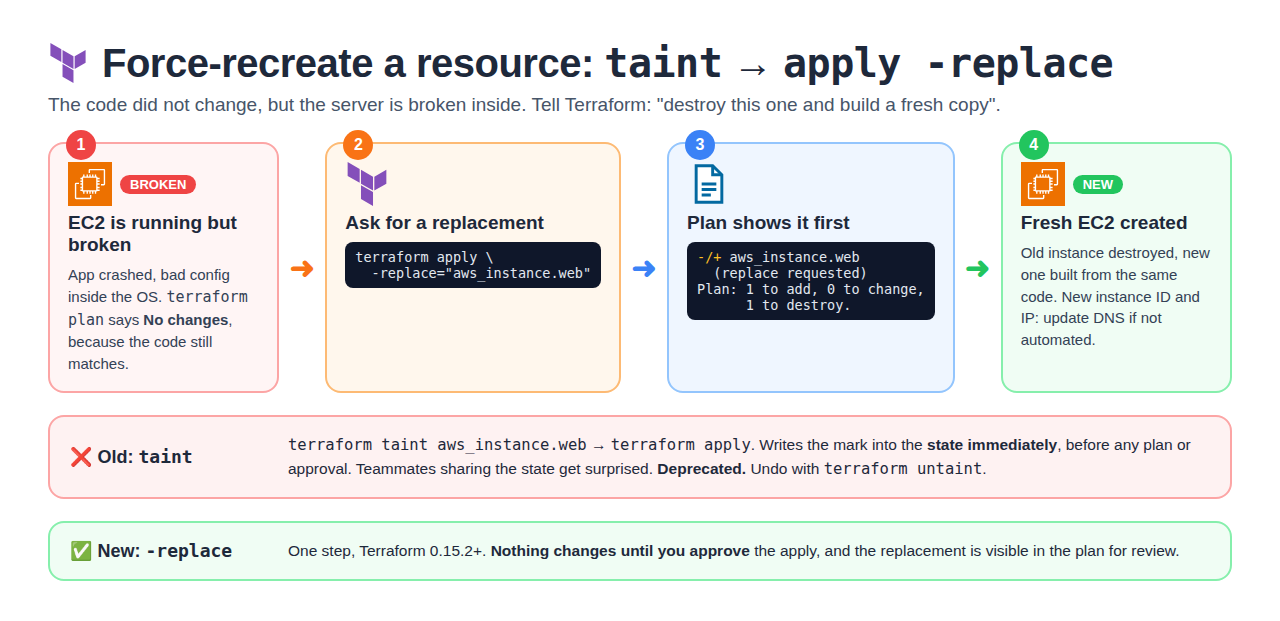
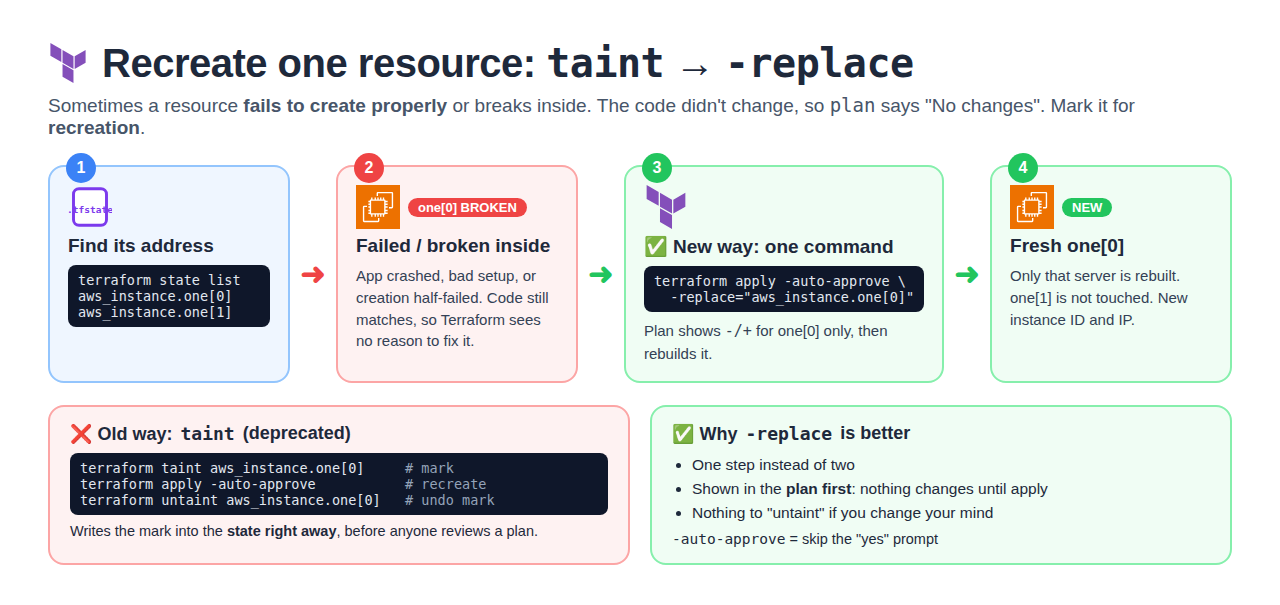
Terraform Day 3: validate, comments, local block, terraform block/providers, taint flow with diagrams

Changed region(s): [[0.0312, 0.0595, 0.9688, 0.9521]]

diff --git a/terraform/day-3-taint-import-debug/README.md b/terraform/day-3-taint-import-debug/README.md
@@ -6,11 +6,15 @@
 
 1. [Quick Definitions](#quick-definitions)
 2. [terraform taint (replace a resource)](#terraform-taint-replace-a-resource)
-3. [terraform plan -out (saved plan)](#terraform-plan--out-saved-plan)
-4. [terraform import](#terraform-import)
-5. [Terraform Debugging](#terraform-debugging)
-6. [terraform graph](#terraform-graph)
-7. [Interview One-Liners](#interview-one-liners)
+3. [terraform validate](#terraform-validate)
+4. [terraform plan -out (saved plan)](#terraform-plan--out-saved-plan)
+5. [terraform import](#terraform-import)
+6. [Terraform Debugging](#terraform-debugging)
+7. [Code Comments](#code-comments)
+8. [Local Block](#local-block)
+9. [Terraform Block & Providers](#terraform-block--providers)
+10. [terraform graph](#terraform-graph)
+11. [Interview One-Liners](#interview-one-liners)
 
 ## Quick Definitions
 
@@ -18,12 +22,22 @@
 - Deprecated → new way: `terraform apply -replace="aws_instance.web"`.
 - **Use when:** a server is running but broken inside and needs a fresh rebuild.
 
+**terraform validate** = **checks the .tf files** for syntax mistakes and undeclared variables, without touching AWS.
+- **Use when:** before `plan`, and as an early CI/CD step.
+
 **terraform plan -out** = **save the plan to a file**, then apply exactly that plan.
 - `terraform plan -out dev` → `terraform apply dev`.
 - **Use when:** CI/CD — plan, get approval, apply exactly what was reviewed.
 
 **terraform import** = bring an **existing resource** (made in the console) **under Terraform control**.
 - Old: `terraform import aws_instance.web i-0abc123`. New: `import {}` block (can generate the code).
+
+**Comments** = notes in code that Terraform ignores: `#` and `//` (single line), `/* */` (multi line).
+- ⚠ Commenting out a resource = removing it from code → next `apply` **destroys** it.
+
+**Local block** = define a repeating value **once** (`locals { env = "prod" }`), use it many times as `local.env`.
+
+**terraform block** = Terraform's own settings: `required_version`, `required_providers`, `backend` (see Day 1).
 
 **terraform graph** = show **which resource depends on which**, as a DOT graph.
 - `terraform graph > graph.dot` → view in Graphviz.
@@ -38,25 +52,50 @@
 **Taint** = mark a resource as **broken** so the next `apply` **destroys and recreates** it — even
 though the code didn't change.
 
-**Use case:** a server is running but broken inside (bad config, crashed app) → rebuild it fresh.
+**Use case:** in real time a resource sometimes **fails to create properly**, or is running but
+broken inside (bad config, crashed app) → rebuild it fresh.
 
 ```bash
-# Old way (deprecated)
-terraform taint aws_instance.web
-terraform apply
+# 1. Find the resource address
+terraform state list                         # aws_instance.one[0], aws_instance.one[1]
 
-# Undo the mark
-terraform untaint aws_instance.web
+# Old way (deprecated)
+terraform taint aws_instance.one[0]          # mark for recreation
+terraform apply -auto-approve                # recreates one[0]
+terraform untaint aws_instance.one[0]        # undo the mark (if you change your mind)
 
 # New way (Terraform 0.15.2+) — one step, shows it in the plan first
-terraform apply -replace="aws_instance.web"
+terraform apply -auto-approve -replace="aws_instance.one[0]"
 ```
+
+`-auto-approve` = skip the "yes" prompt. Only `one[0]` is rebuilt; `one[1]` is not touched.
 
 | Old (`taint`)                         | New (`-replace`)                         |
 | ------------------------------------- | ---------------------------------------- |
 | Changes state immediately             | Nothing changes until you approve apply  |
 | Teammates may get surprised           | Visible in the plan                      |
 | Deprecated                            | ✅ Recommended                            |
+
+## terraform validate
+
+![terraform validate](./images/validate.png)
+
+**validate** = checks the **configuration files in your working directory** for mistakes. Fast,
+and it does **not** talk to AWS.
+
+```bash
+terraform validate
+# Error: Reference to undeclared input variable "size"   ← used var.size, no variable block
+# Success! The configuration is valid.                    ← after adding variable "size" {}
+```
+
+| Catches                                   | Does NOT catch (shows in plan / apply) |
+| ----------------------------------------- | -------------------------------------- |
+| Syntax errors (missing `}`, typos)        | Wrong AMI ID, missing key pair         |
+| Variables used but **not declared**       | No AWS permission                      |
+| Wrong argument names / types              | Limits / quotas in AWS                 |
+
+**Order:** `init` → `fmt` → `validate` → `plan` → `apply`.
 
 ## terraform plan -out (saved plan)
 
@@ -66,7 +105,7 @@ terraform apply -replace="aws_instance.web"
 nothing less.
 
 ```bash
-terraform plan -out dev       # save plan to file "dev"
+terraform plan -out dev       # save plan to file "dev" (any name, e.g. ec2)
 terraform show dev            # review it
 terraform apply dev           # apply exactly what was reviewed (no "yes" prompt)
 ```
@@ -166,6 +205,84 @@ terraform plan
 | `terraform fmt`      | Fix formatting                             |
 | `terraform console`  | Test expressions, e.g. `local.name`        |
 
+## Code Comments
+
+![Comments in Terraform](./images/comments.png)
+
+**Comments** = notes to help others understand the code. Terraform **ignores** them.
+
+```hcl
+# this is single line comment
+
+// this is also single line comment
+
+/* this is
+multi-line comment */
+```
+
+| Syntax   | Type         |
+| -------- | ------------ |
+| `#`      | Single line (most used) |
+| `//`     | Single line  |
+| `/* */`  | Multi line   |
+
+⚠ **Comment out a resource block = remove it from the code.** It's still in the state but not in
+the code → `plan` shows **1 to destroy** → `apply` **deletes** the real server.
+
+## Local Block
+
+![Local block](./images/localblock.png)
+
+**locals** = define a value **once** and use it **many times**. Cleaner code; one change updates
+everything.
+
+```hcl
+locals {
+  env = "prod"
+}
+
+resource "aws_vpc" "one" {
+  cidr_block = "10.0.0.0/16"
+  tags = { Name = "${local.env}-vpc" }          # prod-vpc
+}
+
+resource "aws_subnet" "two" {
+  vpc_id     = aws_vpc.one.id
+  cidr_block = "10.0.0.0/24"
+  tags = { Name = "${local.env}-subnet" }       # prod-subnet
+}
+
+resource "aws_instance" "three" {
+  subnet_id     = aws_subnet.two.id
+  ami           = "ami-0abc123"
+  instance_type = "t2.micro"
+  tags = { Name = "${local.env}-server" }       # prod-server
+}
+```
+
+Change `env = "dev"` → dev-vpc, dev-subnet, dev-server. Full details (variables vs locals) in
+[Day 4](../day-4-variables/README.md#locals).
+
+## Terraform Block & Providers
+
+**terraform block** = Terraform's own settings (version, providers, backend). Full notes in
+[Day 1](../day-1-intro/README.md#terraform-block--version).
+
+![terraform block](../day-1-intro/images/tfblock.png)
+
+```hcl
+terraform {
+  required_version = ">= 1.8.0"
+}
+```
+
+Check version: `terraform -v` · `terraform version` · `terraform -version` · `terraform --version`
+
+**Multiple providers** can be installed at once; `terraform init -upgrade` moves to the newest
+versions the rules allow.
+
+![Multiple providers](../day-1-intro/images/providers.png)
+
 ## terraform graph
 
 **terraform graph** = prints the **dependency graph** of your code (which resource needs which) in
@@ -191,5 +308,8 @@ aws_instance.web ──► aws_subnet.public ──► aws_vpc.main
 - **taint** = force recreate a resource; deprecated → use `terraform apply -replace=<address>`.
 - **plan -out** = save the plan and apply exactly that; standard in CI/CD with approval.
 - **import** = bring hand-made resources under Terraform; import block (1.5+) can generate the code.
+- **validate** = checks syntax and undeclared variables before plan; doesn't touch AWS.
+- **Comments** = `#`, `//`, `/* */`; commenting out a resource makes Terraform destroy it.
+- **locals** = define once, reuse; can't be set from outside (unlike variables).
 - **terraform graph** = dependency graph in DOT format; view it with Graphviz.
 - **Debugging** = `TF_LOG=DEBUG` (or TRACE) + `TF_LOG_PATH` to save logs to a file.
